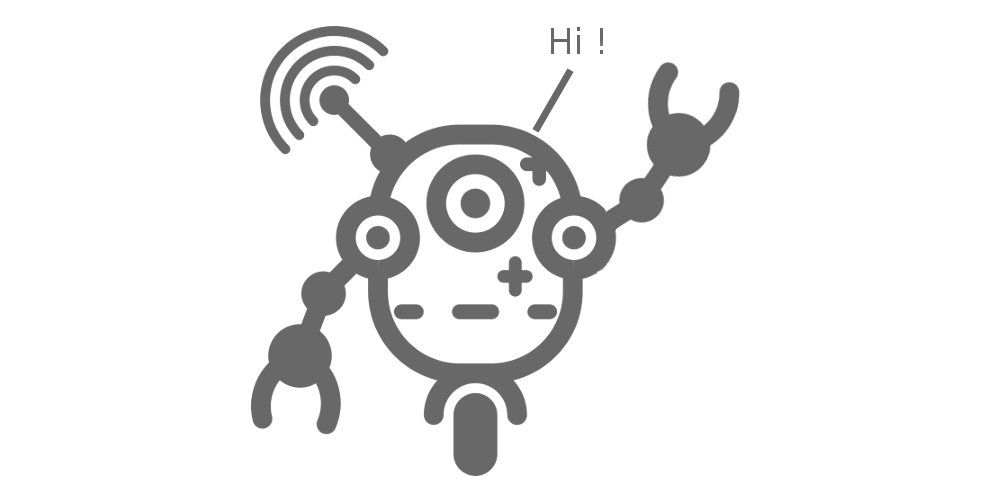
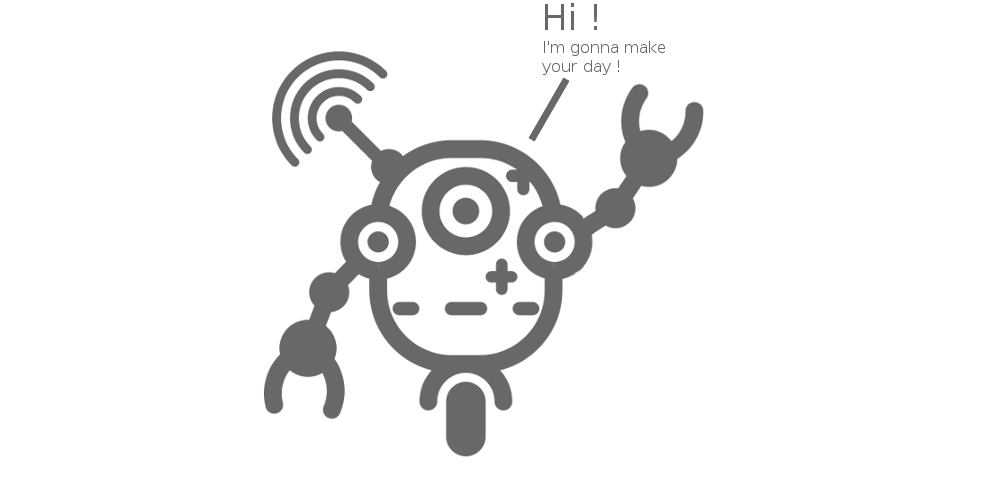
README title + new pic

Changed region(s): [[0.248, 0.0, 0.744, 0.96]]

diff --git a/README.md b/README.md
@@ -1,9 +1,11 @@
+# Meet Daryl
+
 ![Daryl](assets/daryl.png?raw=true "Daryl")
 
 Table of Contents
 =================
 
-   * [Daryl](#daryl)
+   * [Intro](#intro)
    * [TODO list apps suck](#todo-list-apps-suck)
    * [How it works](#how-it-works)
       * [Installation](#installation)
@@ -15,7 +17,7 @@ Table of Contents
          * [Mark last note as done](#mark-last-note-as-done)
          * [Sync to github](#sync-to-github)
 
-# Daryl
+# Intro
 
 Daryl allows to take note from the terminal by typing `daryl This is noted I can forget it and go on`.
 
